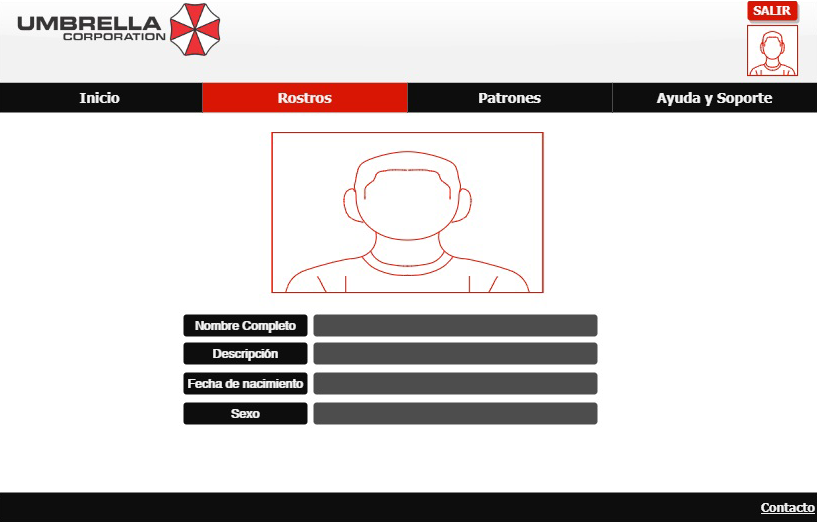
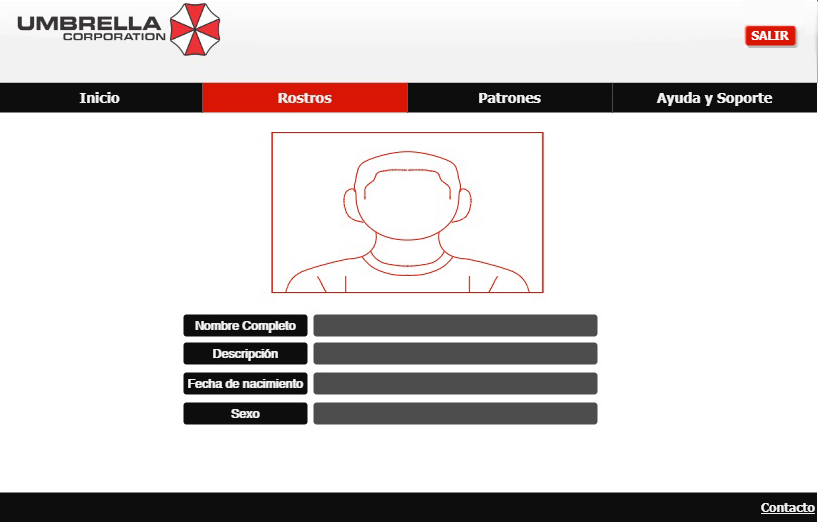
Funcionalidad de botón salir y botón inicio

Changed region(s): [[0.8863, 0.0, 0.978, 0.1533]]

diff --git a/pruebaaaaaa/src/sample/PatronesController.java b/pruebaaaaaa/src/sample/PatronesController.java
@@ -31,8 +31,15 @@ import java.util.ArrayList;
 import java.util.List;
 import java.util.logging.Level;
 import java.util.logging.Logger;
+import javafx.application.Platform;
 import javafx.embed.swing.SwingFXUtils;
+import javafx.event.EventHandler;
+import javafx.fxml.FXMLLoader;
+import javafx.scene.Parent;
+import javafx.scene.Scene;
 import javafx.scene.image.Image;
+import javafx.stage.Stage;
+import javafx.stage.WindowEvent;
 import javax.imageio.ImageIO;
 import org.opencv.core.Core;
 import org.opencv.core.CvType;
@@ -52,6 +59,10 @@ public class PatronesController implements Initializable {
     @FXML
     private ImageView caraPersona;
     Image fotoCara;
+    @FXML
+    private Button botonInicio;
+    @FXML
+    private Button botonSalir;
 
     /**
      * Initializes the controller class.
@@ -83,6 +94,38 @@ public class PatronesController implements Initializable {
         
       caraPersona.setVisible(true);
       
+    }
+
+    @FXML
+    private void irInicio(ActionEvent event) throws IOException {
+        cambioEscena("sample.fxml");
+       
+    }
+    
+    public void cambioEscena(String nombreFxml) throws IOException{
+        Stage stage2 = (Stage) this.botonInicio.getScene().getWindow();
+        stage2.close();
+        Stage stage = new Stage();
+        Parent root2 = FXMLLoader.load(getClass().getResource(nombreFxml));
+        Scene scene = new Scene(root2);
+
+        stage.setScene(scene);
+        stage.show();
+        
+        stage.setOnCloseRequest(new EventHandler<WindowEvent>() {
+            @Override
+            public void handle(WindowEvent t) {
+                Platform.exit();
+                System.exit(0);
+            }
+        });
+    }
+
+    @FXML
+    private void salir(ActionEvent event) {
+        Stage stage = (Stage) this.botonSalir.getScene().getWindow();
+        stage.close();
+        System.exit(0);
     }
    
 }

diff --git a/pruebaaaaaa/src/sample/RostrosController.java b/pruebaaaaaa/src/sample/RostrosController.java
@@ -27,7 +27,6 @@ import javafx.scene.image.ImageView;
 import javafx.stage.Stage;
 import javafx.stage.WindowEvent;
 import javax.imageio.ImageIO;
-import sample.Controller;
 
 public class RostrosController implements Initializable{
 
@@ -46,6 +45,10 @@ public class RostrosController implements Initializable{
     
     ArrayList<Persona> personas = new ArrayList<>();
     int contador=1;
+    @FXML
+    private Button botonSalir;
+    @FXML
+    private Button botonInicio;
     
     public void setPersonas(ArrayList<Persona> personas) {
         this.personas = personas;
@@ -163,4 +166,19 @@ public class RostrosController implements Initializable{
             }
         }
     }
+
+    @FXML
+    private void salir(ActionEvent event) {
+        Stage stage = (Stage) this.botonSalir.getScene().getWindow();
+        stage.close();
+        System.exit(0);
+    }
+    
+
+    @FXML
+    private void irInicio(ActionEvent event) throws IOException {
+        cambioEscena("sample.fxml");
+    }
+    
+    
 }

diff --git a/pruebaaaaaa/src/sample/Controller.java b/pruebaaaaaa/src/sample/Controller.java
@@ -31,7 +31,7 @@ import org.opencv.imgcodecs.Imgcodecs;
 import org.opencv.imgproc.Imgproc;
 
 public class Controller {
-    private WebCamCapture webCamCapture;
+    public WebCamCapture webCamCapture;
     @FXML
     private ImageView cameraFrame;
     @FXML
@@ -65,6 +65,8 @@ public class Controller {
     public static void setImagenCapturada(ImageView imagenCapturada) {
         Controller.imagenCapturada = imagenCapturada;
     }
+    @FXML
+    private Button botonSalir;
     
     
     @FXML
@@ -84,6 +86,7 @@ public class Controller {
             prender.setVisible(false);
         }
     }
+    
 
     @FXML
     private void takePicture(ActionEvent event) throws IOException {
@@ -258,6 +261,13 @@ public class Controller {
         //HighGui.waitKey();
         //System.exit(0);
         
+    }
+
+    @FXML
+    private void salir(ActionEvent event) {
+        Stage stage = (Stage) this.botonSalir.getScene().getWindow();
+        stage.close();
+        System.exit(0);
     }
     
 }

diff --git a/pruebaaaaaa/src/sample/WebCamCapture.java b/pruebaaaaaa/src/sample/WebCamCapture.java
@@ -30,6 +30,10 @@ public class WebCamCapture {
         timer.scheduleAtFixedRate(frameGrabber, 0, 33, TimeUnit.MILLISECONDS);
     }
 
+    WebCamCapture() {
+        throw new UnsupportedOperationException("Not supported yet."); //To change body of generated methods, choose Tools | Templates.
+    }
+
     private void getFrame(){
         if (capture.isOpened()){
             Mat frame = new Mat();
